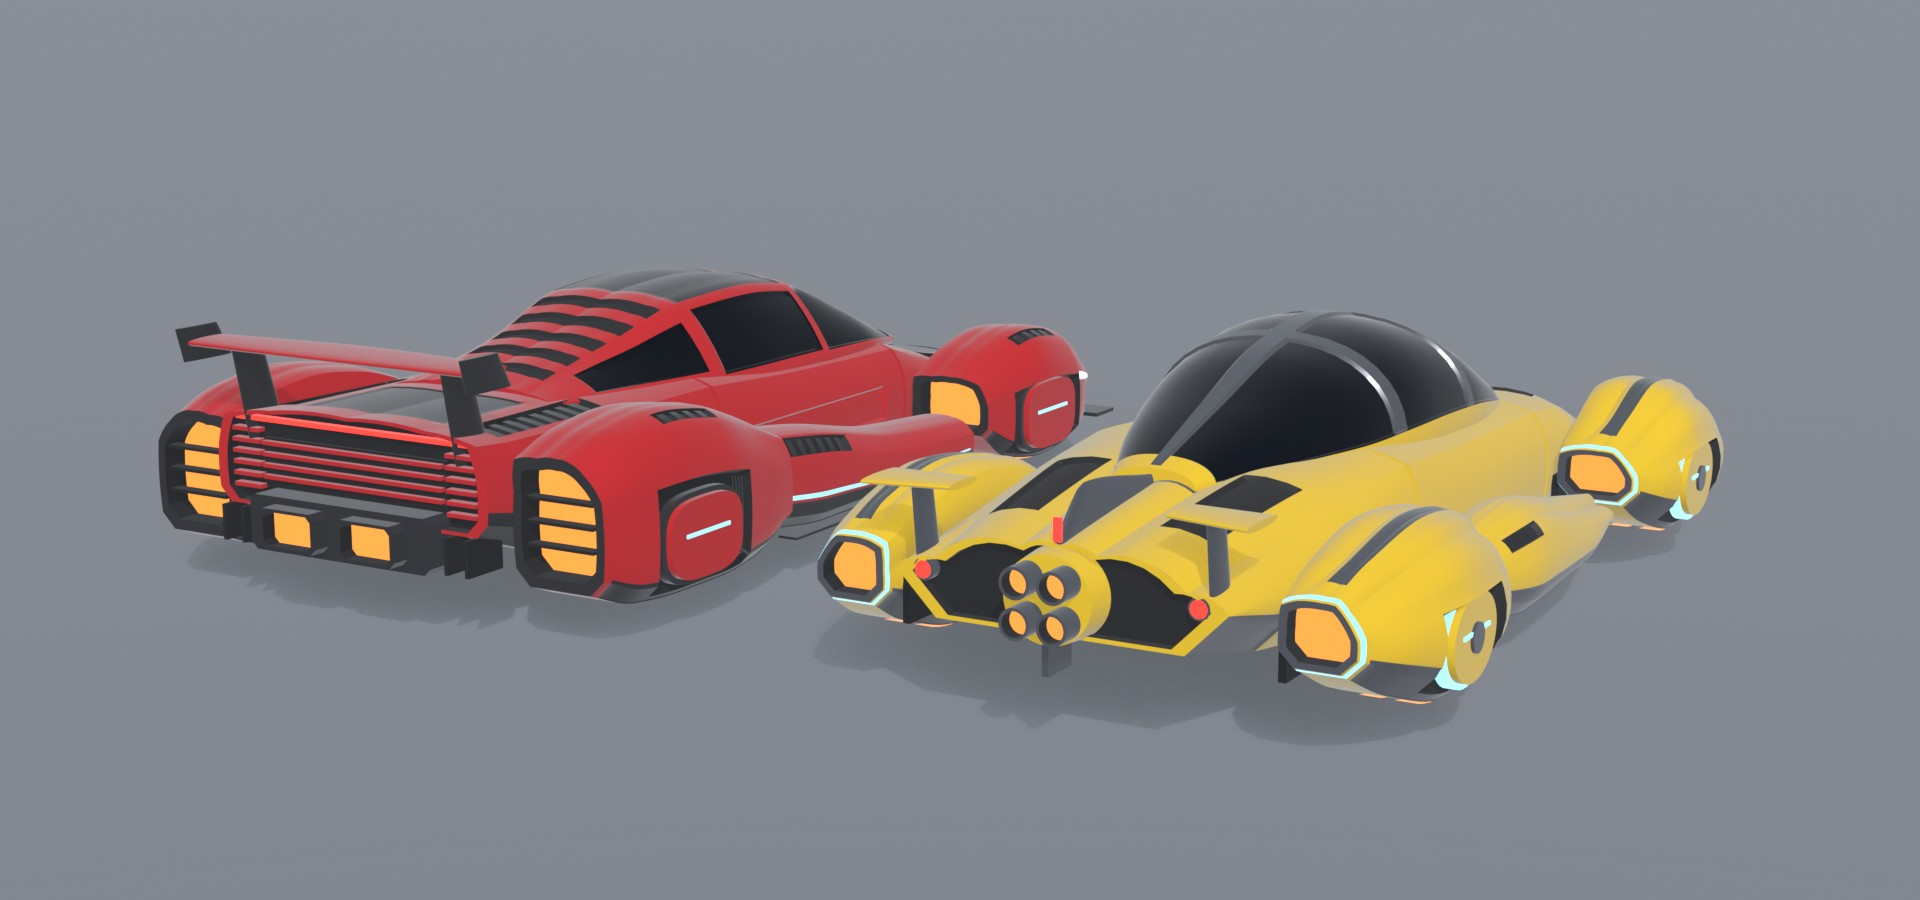
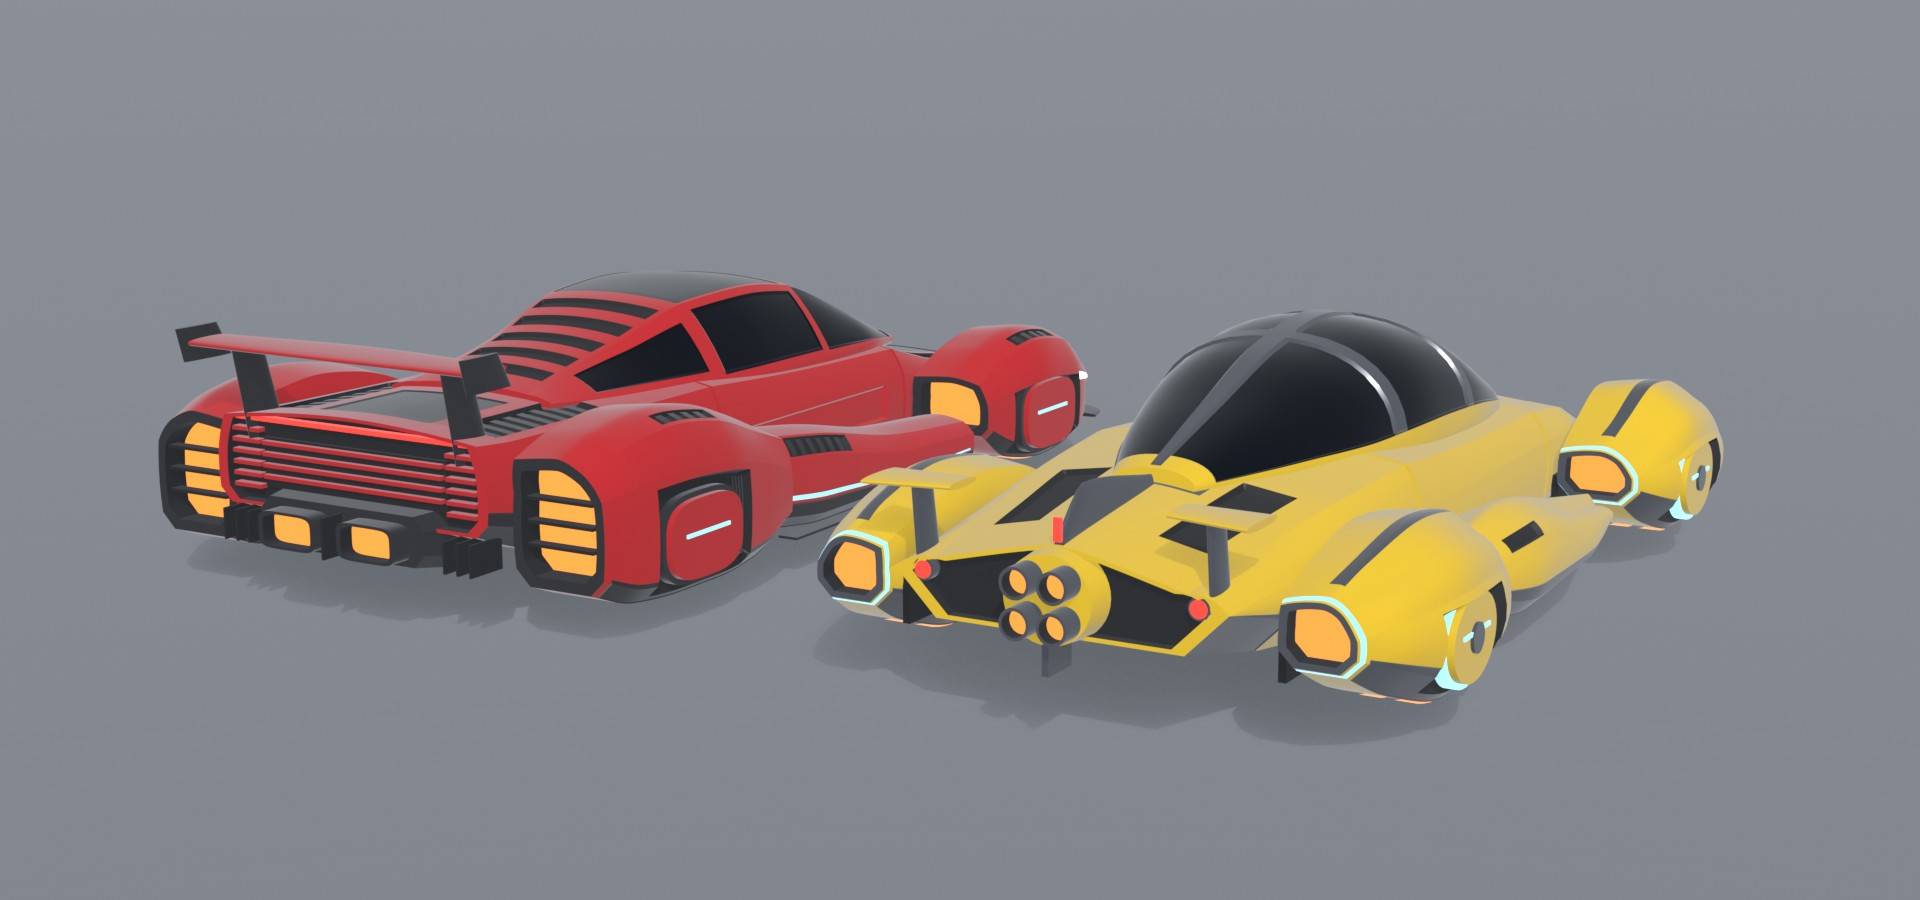
garage: Exotic mesh kit - clean outlines; sharp car rear and splitter tidy
Kit: the top of every body section is one smooth curve, and hard creases are
set explicitly along crease lines and recess walls instead of by angle, which
removes the wavy outlines. Sharp car: grille block and splitters follow the
prow and fender curves; burner housing and nozzles reshaped; diffuser fins
thinner and evenly spaced.
Blender only: nothing installed in Studio.

diff --git a/scripts/exotic_category/mesh/exokit.py b/scripts/exotic_category/mesh/exokit.py
@@ -22,7 +22,7 @@ import bpy
 PREFIX = "EXO_"
 STATE = {"car": None, "coll": None, "key": None}
 MODS = {}
-SHARP = math.radians(26)
+SHARP = math.radians(40)  # only for caps, throats and boxes; skins use explicit creases
 BEVEL = 0.0  # edge bevels switched off: they broke up along gently curving creases
 ET = 0.05  # wall width of a sunk region along the loft axis
 
@@ -117,6 +117,9 @@ class _Surface:
     def _fill(self, row):
         pass
 
+    def _crease(self, side, u):
+        return ()
+
     def params(self, t):
         key = round(t, 5)
         if key not in self._cache:
@@ -168,15 +171,34 @@ class _Surface:
             ts.extend(seg if i == 0 else seg[1:])
         ring = self._ring(regions)
         n = len(ring)
-        verts = []
+        verts, tags = [], []
         for t in ts:
             for r in ring:
                 side, u = self._key(r)
                 depth = 0.0
-                for g in regions:
+                tg = set(self._crease(side, u))
+                for gi, g in enumerate(regions):
                     if self._hit(g, t, side, u, lo, hi, True):
                         depth = g["depth"]
+                    if g["depth"] and self._hit(g, t, side, u, lo, hi, False):
+                        (ta, tb), (ua, ub) = g["t"], g["u"]
+                        for k, m in enumerate((ta, ta + ET, tb - ET, tb)):
+                            if abs(t - m) < 1e-6:
+                                tg.add(("t", gi, k))
+                        for k, m in enumerate((ua, ua + self.EU, ub - self.EU, ub)):
+                            if abs(u - m) < 1e-6:
+                                tg.add(("u", gi, k, side))
                 verts.append(self._pt(t, r, off=-depth, scale=scale))
+                tags.append(tg)
+        # An edge is a hard crease when both ends sit on the same crease line or region wall line.
+        sharp = []
+        for i in range(len(ts)):
+            for j in range(n):
+                a, b = i * n + j, i * n + (j + 1) % n
+                if tags[a] & tags[b]:
+                    sharp.append((a, b))
+                if i + 1 < len(ts) and tags[a] & tags[a + n]:
+                    sharp.append((a, a + n))
         faces, fch = [], []
         for i in range(len(ts) - 1):
             tc = (ts[i] + ts[i + 1]) / 2
@@ -198,7 +220,7 @@ class _Surface:
         if caps[1]:
             faces.append(tuple((len(ts) - 1) * n + j for j in range(n)))
             fch.append(ch)
-        return _add(name, verts, faces, ch, mirror, fch=fch)
+        return _add(name, verts, faces, ch, mirror, fch=fch, sharp=sharp)
 
     def throat(self, name, end, lip="primary", wall="detail", back="detail", scale=0.8, depth=0.5,
                mirror=False):
@@ -298,6 +320,14 @@ class Hull(_Surface):
     UMIN = 0.0
     UMAX = 6.0
 
+    def __init__(self, stations, axis="z", creases=(1, 2, 3, 4), **defaults):
+        self.creases = tuple(creases)
+        super().__init__(stations, axis, **defaults)
+
+    def _crease(self, side, u):
+        k = int(round(u))
+        return ((("c", side, k),) if abs(u - k) < 1e-9 and k in self.creases else ())
+
     def _fill(self, row):
         row.setdefault("wi", row["w"])
         row.setdefault("tumi", row["tum"])
@@ -312,6 +342,17 @@ class Hull(_Surface):
         u = min(max(u, 0.0), 6.0)
         i = min(int(u), 5)
         s = u - i
+        if i >= 4:
+            # Top edge to centre is one smooth curve, level at the centre line, so the two halves
+            # meet without a ridge and the outline has no kink at the inner break.
+            q = (u - 4.0) / 2.0
+            c0, c3 = k[4], k[6]
+            c1 = (c0[0] + (k[5][0] - c0[0]) * 0.8, c0[1] + (k[5][1] - c0[1]) * 0.8)
+            c2 = (k[5][0] * 0.45, c3[1])
+            m = 1.0 - q
+            b0, b1, b2, b3 = m * m * m, 3 * m * m * q, 3 * m * q * q, q * q * q
+            return (b0 * c0[0] + b1 * c1[0] + b2 * c2[0] + b3 * c3[0],
+                    b0 * c0[1] + b1 * c1[1] + b2 * c2[1] + b3 * c3[1])
         (x0, y0), (x1, y1) = k[i], k[i + 1]
         x, y = x0 + (x1 - x0) * s, y0 + (y1 - y0) * s
         bulge = p["cs"] if i == 2 else p["crown"] if i > 2 else 0.0
@@ -395,10 +436,12 @@ def _material(car, ch):
     return m
 
 
-def _add(name, verts, faces, ch, mirror=False, closed=True, fch=None):
+def _add(name, verts, faces, ch, mirror=False, closed=True, fch=None, sharp=()):
     fch = list(fch) if fch else [ch] * len(faces)
+    sharp = list(sharp)
     if mirror:
         n = len(verts)
+        sharp += [(a + n, b + n) for a, b in sharp]
         verts = list(verts) + [(-x, y, z) for x, y, z in verts]
         faces = list(faces) + [tuple(reversed([i + n for i in f])) for f in faces]
         fch = fch + fch
@@ -421,6 +464,12 @@ def _add(name, verts, faces, ch, mirror=False, closed=True, fch=None):
     for e in bm.edges:
         if len(e.link_faces) == 2 and e.calc_face_angle(0.0) > SHARP:
             e.smooth = False
+    if sharp:
+        bm.verts.ensure_lookup_table()
+        for a, b in sharp:
+            e = bm.edges.get((bm.verts[a], bm.verts[b]))
+            if e is not None:
+                e.smooth = False
     bm.to_mesh(mesh)
     bm.free()
     ob = bpy.data.objects.new(full, mesh)

diff --git a/scripts/exotic_category/mesh/cars.py b/scripts/exotic_category/mesh/cars.py
@@ -131,11 +131,13 @@ def car_a():
         R(-12.5, -10.5, 2.86, 3.0, "lights", -0.01),
         R(-11.2, -7.0, 5.0, 6.0, "secondary", 0.03), R(-9.9, -7.4, 4.15, 4.85, "detail", 0.18)])
     louvres(nose, "hood", -9.8, -7.5, 4.2, 4.8, 6, off=-0.1)
-    jaw = rect([(-12.0, {}), (-10.5, {})], 0, 3.3, -0.4, 0.3, c=0.12)
+    # The grille block and the splitter follow the curve of the prow.
+    jaw = Loft([(-12.3, dict(w=1.9)), (-11.9, dict(w=2.9)), (-11.2, dict(w=3.4)), (-10.5, dict(w=3.5))],
+               yb=-0.4, yt=0.3, nt=5, nb=5)
     jaw.build("jaw", "secondary", caps=(False, True))
-    jaw.throat("grille", "min", lip="secondary", scale=0.9, depth=1.0)
-    Loft([(-12.7, dict(w=2.6)), (-12.35, dict(w=3.5)), (-11.5, dict(w=3.78))], yb=-0.52, yt=-0.42, nt=6,
-         nb=6).build("splitter", "secondary")
+    jaw.throat("grille", "min", lip="secondary", scale=0.88, depth=0.5)
+    Loft([(-12.7, dict(w=1.6)), (-12.4, dict(w=2.7)), (-11.7, dict(w=3.45)), (-10.8, dict(w=3.78))],
+         yb=-0.52, yt=-0.42, nt=5, nb=5).build("splitter", "secondary")
 
     # Front engines: free-standing fenders with a channel to the body. Rounded prow set back from the
     # nose, slim headlight on its front face under a lid, light blade below, strake intake underneath.
@@ -156,7 +158,8 @@ def car_a():
     for i, u in enumerate((1.5, 1.95, 2.4)):
         pod.patch(f"strake{i}", -11.52, -10.68, u, u + 0.14, "primary", off=-0.06, mirror=True)
     pod.throat("noz", "max", lip="secondary", back="thrust", scale=0.78, depth=0.5, mirror=True)
-    box("splitter", (5.15, -0.47, -11.5), (2.6, 0.1, 1.0), "secondary", mirror=True)
+    Loft([(-12.05, dict(w=0.5)), (-11.7, dict(w=1.1)), (-10.9, dict(w=1.35))], cx=5.12, yb=-0.52, yt=-0.42,
+         nt=5, nb=5).build("splitter", "secondary", mirror=True)
     box("channel", (4.02, -0.05, -8.2), (0.42, 0.5, 5.2), "detail", mirror=True)
 
     K.begin(c, "TAIL")
@@ -172,8 +175,8 @@ def car_a():
     box("blade", (0, 2.36, 11.02), (6.6, 0.1, 0.16), "lights_red")
     for i, y in enumerate((2.1, 1.85, 1.6, 1.35, 1.1, 0.85)):
         box(f"strake{i}", (3.0, y, 11.04), (0.78, 0.09, 0.2), "primary", mirror=True)
-    for i, x in enumerate((2.85, 3.4)):
-        box(f"fin{i}", (x, 0.05, 10.95), (0.1, 0.8, 1.1), "detail", mirror=True)
+    for i, x in enumerate((2.75, 3.1, 3.45)):
+        box(f"fin{i}", (x, 0.0, 10.95), (0.06, 0.7, 1.0), "detail", mirror=True)
 
     K.begin(c, "RPOD")
     pod = Hull([(3.6, dict(SIDE_R, yb=-0.5, yt=1.6)),
@@ -205,10 +208,12 @@ def car_a():
     box("panel", (0, 1.4, 10.98), (5.1, 1.1, 0.1), "detail")
     for i, y in enumerate((1.85, 1.6, 1.35, 1.1)):
         box(f"strake{i}", (0, y, 11.06), (5.0, 0.09, 0.2), "primary")
-    rect([(10.7, {}), (11.6, {})], 0, 2.5, -0.4, 0.82, c=0.15).build("housing", "secondary")
-    t = rect([(11.0, {}), (12.0, {})], 1.1, 0.8, -0.24, 0.66, c=0.14)
+    Hull([(10.7, dict(w=2.5, yb=-0.42, yt=0.85)), (11.5, dict(w=2.3, yb=-0.3, yt=0.8))], rb=0.3, ys=0.5,
+         tum=0.3, drop=0.0, wcf=0.5, d2=0.0, crown=0.0).build("housing", "secondary")
+    t = Loft([(11.2, {}), (12.0, {})], cx=1.1, w=0.8, yb=-0.2, yt=0.62, nt=5, nb=5, yw=0.5)
     t.build("burner", "secondary", mirror=True, caps=(True, False))
     t.throat("noz", "max", lip="secondary", back="thrust", scale=0.84, depth=0.35, mirror=True)
+    box("divider", (0, 0.2, 11.75), (0.06, 0.9, 0.7), "detail")
 
     K.begin(c, "WING")
     Loft([(-3.9, dict(w=0.6, cx=11.2)), (0, {}), (3.9, dict(w=0.6, cx=11.2))], axis="x", cx=11.05, w=0.8,
